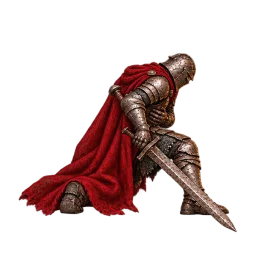
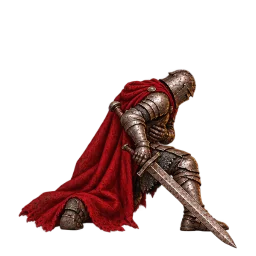
Register guard-break on knee and boot support

Changed region(s): [[0.0625, 0.1875, 0.9375, 0.9688]]

diff --git a/src/content/alternativeSelectedStances.js b/src/content/alternativeSelectedStances.js
@@ -1,2 +1,2 @@
 // Owner-selected held poses and weapon-specific pose profiles, exported from unchanged comparison artwork.
[2 lines of base64/hex data omitted]

diff --git a/docs/preview/update-stances-selected-20261012/README.md b/docs/preview/update-stances-selected-20261012/README.md
@@ -4,4 +4,4 @@ This neutral comparison shows the standing Reaver reference beside the five sele
 
 The selected roles are sweep (smash 04), counter (smash 06), smash (smash 05), evade (smash 08), and guard-break (guard-break 06). The source mappings and crop bounds are recorded in [`selections.json`](../../../pose-studio/stances/update-stances/selections.json).
 
-All five use one shared scale and the same floor anchor at `[256, 464]`. The selected source pixels are cropped and floor-registered without repainting.
+All five use one shared scale (`0.8553971487`) and the floor anchor `[256, 464]`. Guard-break uses the grounded knee and planted boot contact at source Y=480; the greatsword tip extends below the floor line but remains inside the canvas. The selected source pixels are cropped and floor-registered without repainting.
